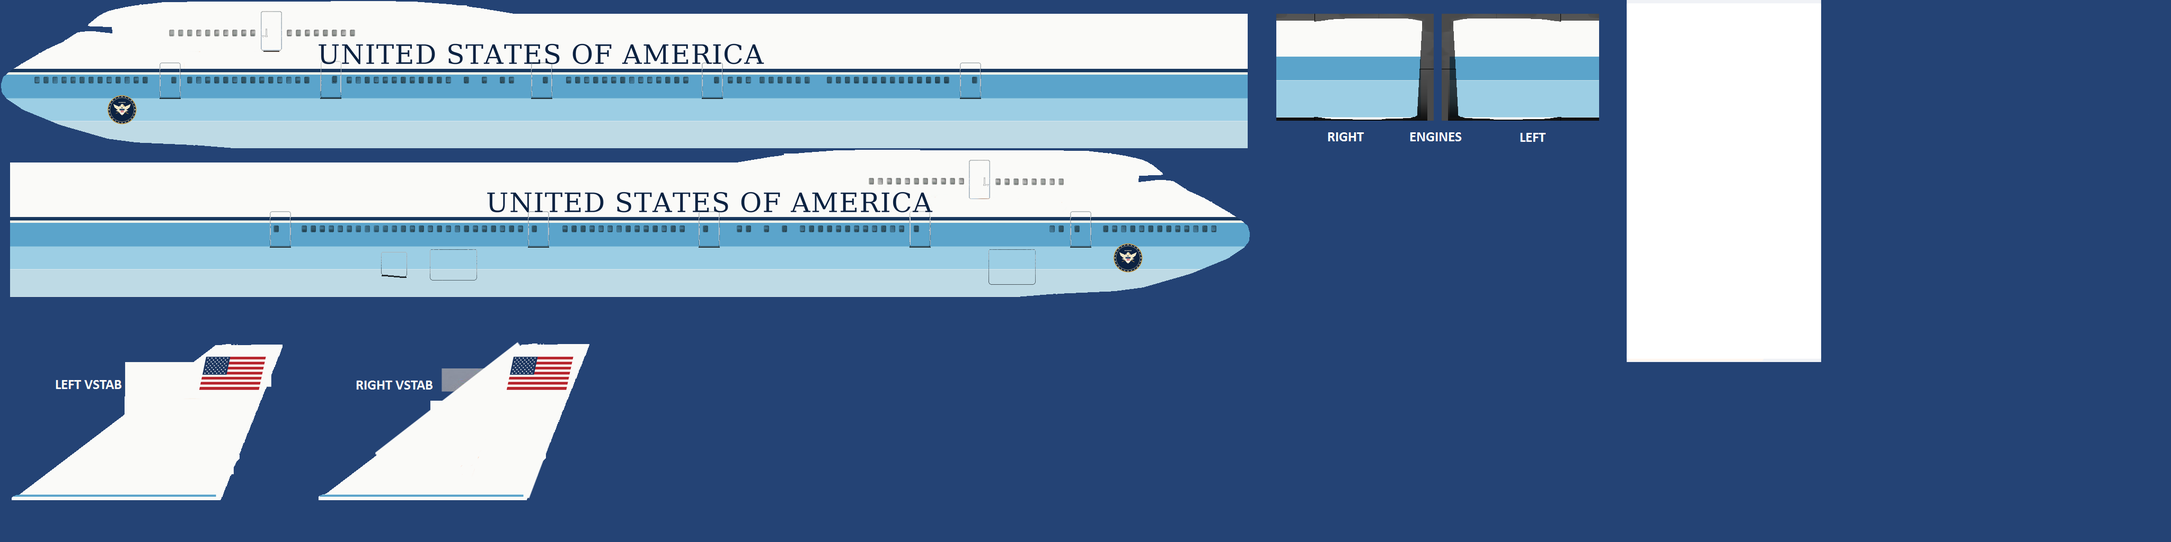
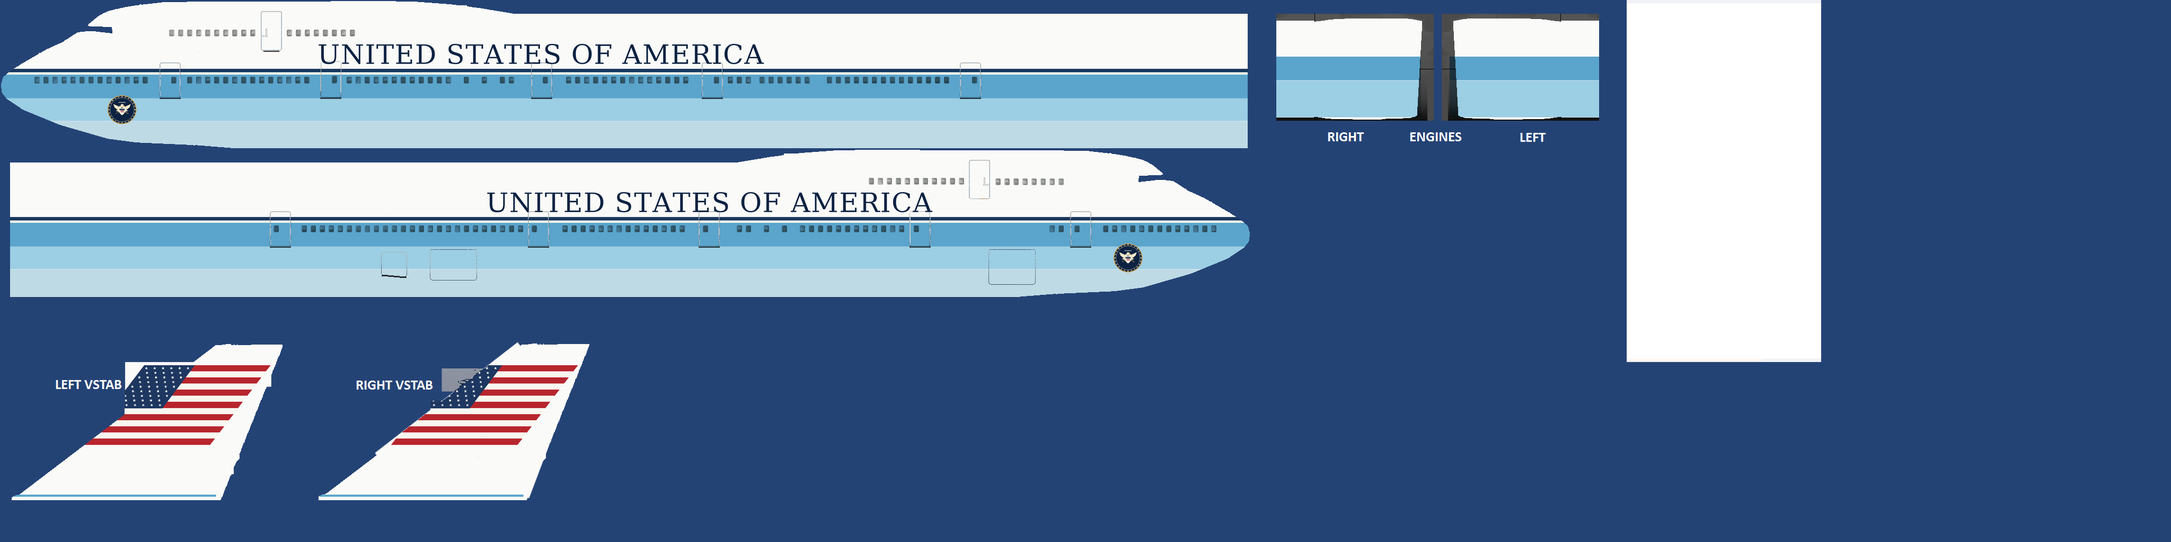
perf: cherry-pick deepseek render optimizations and 747 livery fixes
Hand-applied from origin/deepseek (224a8c0) on top of current main; the
branch itself is not merged.

Taken:
- main.js: WebGL2 context with preserveDrawingBuffer:false and
  powerPreference 'high-performance'; display.captureAfterRender() right
  after renderer.render; parked 747s tracked in parkedAircraft, frozen
  (matrixWorldAutoUpdate=false) and hidden in low quality; camera projection
  rebuilt only when near/fov/size/view offset change (also keeps
  camera.aspect in sync with the viewport, which it previously never was).
- display.js: throttled backup frame (every 20 frames) instead of reading
  the drawing buffer on context loss / hide; clientWidth/Height only read
  when the ResizeObserver marked the view dirty; pixel-ratio cap 1.7 -> 1.5.
- airflow.js: idle particle pools skip the per-particle loop and upload;
  no per-frame array allocations in emit/streaks.
- aircraft.js: reuse a module _pivot vector in update; anisotropy 16 -> 8
  (also accurate-a330.js and the world pavement texture).
- world.js: sun shadow map 4096 -> 2048 (speckle textures etc. kept).
- 747 AF1_CLASSIC.png: large flag across the upper fin, union leading on
  both sides (VC-25A style). Checked in renders from both sides.
- 777 AF1_CLASSIC / AF1_2026 fins: deepseek's intent (big flag) redone in
  main's generator rather than taking its old atlases: larger VC-25A flag
  with 28000 below, and the flag mirrored on starboard so the union leads
[…]

Changed region(s): [[0.0312, 0.6562, 0.125, 0.8438], [0.1875, 0.6562, 0.2812, 0.8438]]

diff --git a/src/main.js b/src/main.js
@@ -23,7 +23,9 @@ let renderer;
 try{
  const canvas=document.createElement('canvas');
  // Supply our own context: Three r170 otherwise requests an alpha-enabled drawing buffer.
- const context=canvas.getContext('webgl2',{alpha:false,antialias:true,depth:true,stencil:false,preserveDrawingBuffer:true,powerPreference:'default'});
+ // preserveDrawingBuffer costs a full-buffer copy on many GPUs; StableDisplay
+ // keeps its own throttled backup instead. Ask for the discrete GPU when present.
+ const context=canvas.getContext('webgl2',{alpha:false,antialias:true,depth:true,stencil:false,preserveDrawingBuffer:false,powerPreference:'high-performance'});
  if(!context)throw Error('WebGL2 unavailable');
  renderer=new T.WebGLRenderer({canvas,context,alpha:false,logarithmicDepthBuffer:true});
 }catch(e){$('#loadingText').textContent='浏览器暂时不能显示三维画面。请用 Chrome 或 Edge，并开启硬件加速后重试。';throw e;}
@@ -32,7 +34,7 @@ const display=new StableDisplay(renderer,$('#viewport'));display.beginFrame();
 const scene=new T.Scene(),camera=new T.PerspectiveCamera(43,innerWidth/innerHeight,.2,120000);
 const world=new World(scene,renderer),sim=new Flight();
 let plane=new Aircraft(),cockpit=null,airflow=null;
-const aircraftCache=new Map();let aircraftRequest=0,liveryVersion=0,desiredLivery='BOE';
+const aircraftCache=new Map();const parkedAircraft=[];let aircraftRequest=0,liveryVersion=0,desiredLivery='BOE';
 const REALITY_TAGS={real:'真机',family:'同系列',none:'无真机'};
 const AIRCRAFT_INFO={
  b747:{name:'BOEING 747–400',gear:'18 个轮子，5 组支撑',engines:4,engine:'GE CF6 · N1 %'},
@@ -44,6 +46,8 @@ let originalAbout='',originalEmitters=null;
 let camMode='orbit',orbitAngle=.87,orbitHeight=.29,orbitDistance=137,focus=new T.Vector3(0,2,0),firstCamera=true,rate=1,panel=null,toastTimer,frameCount=0,elapsed=0,fps=0;
 let orbitOverview=true,overviewCraft=null;
 let lookYaw=0,lookPitch=0,viewFov=43,towerZoom=1,cancelCameraGestures=()=>{};
+// Cache projection inputs so the camera matrix is only rebuilt when one of them changes.
+let lastViewX=NaN,lastW=0,lastH=0,lastFov=0,lastNear=0;
 const keys=new Set(),touch=new Set(),surface={roll:0,pitch:0,yaw:0};
 const camPos=new T.Vector3(),camTarget=new T.Vector3(),targetPos=new T.Vector3(),planePos=new T.Vector3();
 const lookDir=new T.Vector3(),lookRight=new T.Vector3(),panRight=new T.Vector3(),panUp=new T.Vector3(),inverseHeading=new T.Quaternion();
@@ -303,7 +307,7 @@ function bindUI(){
  $('#assist').onclick=()=>{sim.assist=!sim.assist;$('#assist').classList.toggle('active',sim.assist);};
  all('[data-time]').forEach(b=>b.onclick=()=>{world.setTime(b.dataset.time);syncCabinTime(plane);document.body.dataset.time=b.dataset.time;all('[data-time]').forEach(x=>x.classList.toggle('active',x===b));});
  all('[data-aircraft]').forEach(b=>{b.onclick=()=>selectAircraft(b.dataset.aircraft);const warm=()=>{if(b.dataset.aircraft!=='b747')preloadAircraft(b.dataset.aircraft,{livery:desiredLivery,priority:'high'});};b.addEventListener('pointerenter',warm);b.addEventListener('focus',warm);b.addEventListener('touchstart',warm,{passive:true});});$('#aircraftSelect').onchange=e=>selectAircraft(e.target.value);
- $('#quality').onchange=e=>{const low=e.target.value==='low';display.setQuality(low);renderer.shadowMap.enabled=!low;airflow?.setQuality(low);};
+ $('#quality').onchange=e=>{const low=e.target.value==='low';display.setQuality(low);renderer.shadowMap.enabled=!low;airflow?.setQuality(low);for(const p of parkedAircraft)p.visible=!low;};
  $('#sound').onclick=()=>{initAudio();sound.enabled=!sound.enabled;sound.ctx.resume();$('#sound').classList.toggle('on',sound.enabled);$('#sound').ariaLabel=sound.enabled?'关闭声音':'开启声音';notify(sound.enabled?'发动机声音已开启':'声音已关闭');};
  $('#help').onclick=()=>$('#helpDialog').showModal();all('[data-close]').forEach(b=>b.onclick=()=>$('#'+b.dataset.close).close());
  $('#fullscreen').onclick=async()=>{try{if(document.fullscreenElement)await document.exitFullscreen();else await document.documentElement.requestFullscreen();}catch{notify('请使用浏览器的全屏按钮');}};
@@ -339,7 +343,14 @@ function updateCamera(dt){
  if(camMode!=='cockpit')camPos.y=Math.max(camPos.y,1.2);
  // Light buffet shake when the wing is close to the stall, a real cue in the cockpit.
  if(sim.buffet&&!sim.paused){const shake=.28;camPos.x+=(Math.random()-.5)*shake;camPos.y+=(Math.random()-.5)*shake;camTarget.add(_shake.set((Math.random()-.5)*shake,(Math.random()-.5)*shake,0));}
- const t=firstCamera?1:1-Math.exp(-dt*6);camera.position.lerp(camPos,t);camTarget.lerp(targetPos,t);camera.up.set(0,1,0);if(camMode==='cockpit')camera.up.applyQuaternion(plane.root.quaternion);camera.lookAt(camTarget);const w=display.width,h=display.height;camera.setViewOffset(w,h,camMode==='orbit'&&w>760?(panel?w*.035:-w*.055):0,0,w,h);camera.near=camMode==='cockpit'?.03:.2;camera.updateProjectionMatrix();firstCamera=false;
+ const t=firstCamera?1:1-Math.exp(-dt*6);camera.position.lerp(camPos,t);camTarget.lerp(targetPos,t);camera.up.set(0,1,0);if(camMode==='cockpit')camera.up.applyQuaternion(plane.root.quaternion);camera.lookAt(camTarget);
+ const w=display.width,h=display.height,viewX=camMode==='orbit'&&w>760?(panel?w*.035:-w*.055):0,near=camMode==='cockpit'?.03:.2;
+ if(h>0&&(near!==lastNear||camera.fov!==lastFov||w!==lastW||h!==lastH||viewX!==lastViewX)){
+  camera.near=near;camera.aspect=w/h;lastNear=near;lastFov=camera.fov;lastW=w;lastH=h;lastViewX=viewX;
+  // Both calls rebuild the projection matrix.
+  if(viewX)camera.setViewOffset(w,h,viewX,0,w,h);else camera.clearViewOffset();
+ }
+ firstCamera=false;
 }
 function drawAttitude(){
  const c=attitude,W=200,H=150,y=sim.pitch*2.6;
@@ -404,13 +415,13 @@ let running=true;
 async function start(){
  try{await plane.load();fixAircraftWingShading(plane);aircraftCache.set('b747',Promise.resolve(plane));scene.add(plane.root);airflow=new Airflow(scene,plane);originalEmitters={engines:airflow.engines,tips:airflow.tips,mainGear:airflow.mainGear};originalAbout=$('#aboutDetails').innerHTML;
  // Parked aircraft share geometry and textures, with animations fixed at their current neutral state.
- for(const [x,z] of [[-1200,-390],[-510,-390],[180,-390],[640,-390]]){const p=plane.root.clone(true),materials=new Map();p.position.set(x,plane.contact,z);p.rotation.y=-Math.PI/2;world.softShadow(x+6,z+2,66,76);p.traverse(o=>{if(o.isMesh){o.castShadow=false;const copy=m=>{if(!materials.has(m))materials.set(m,m.clone());return materials.get(m);};o.material=Array.isArray(o.material)?o.material.map(copy):copy(o.material);}});scene.add(p);p.updateMatrixWorld(true);p.traverse(o=>{o.matrixAutoUpdate=false;});}
+ for(const [x,z] of [[-1200,-390],[-510,-390],[180,-390],[640,-390]]){const p=plane.root.clone(true),materials=new Map();p.position.set(x,plane.contact,z);p.rotation.y=-Math.PI/2;world.softShadow(x+6,z+2,66,76);p.traverse(o=>{if(o.isMesh){o.castShadow=false;const copy=m=>{if(!materials.has(m))materials.set(m,m.clone());return materials.get(m);};o.material=Array.isArray(o.material)?o.material.map(copy):copy(o.material);}});scene.add(p);p.updateMatrixWorld(true);p.traverse(o=>{o.matrixAutoUpdate=false;o.matrixWorldAutoUpdate=false;});p.visible=$('#quality')?.value!=='low';parkedAircraft.push(p);}
  addCabinLights(plane);syncCabinTime(plane);
  bindUI();showLivery();resize();setCam('orbit');$('#loading').remove();if(!/[?&]prefetch=0/.test(location.search))setTimeout(()=>scheduleIdlePrefetch(['a330','b777','a380'],{livery:()=>desiredLivery}),3000);
  window.flightLab={sim,plane,world,airflow,camera,renderer,display,go,setCam,focusPart,setThrottle,selectAircraft,selectLivery,preloadAircraft,setOrbit(angle,height,distance,at){orbitOverview=false;orbitAngle=angle;orbitHeight=height;orbitDistance=distance;if(at)focus.fromArray(at);firstCamera=true;},cameraView(){return{mode:camMode,azimuth:orbitAngle,elevation:orbitHeight,distance:orbitDistance,focus:focus.toArray(),lookYaw,lookPitch,viewFov,towerZoom};},advance(seconds){for(let i=0;i<seconds*120;i++)sim.step(1/120,{});},snapshot(){return{mode:sim.mode,phase:sim.phase,x:sim.x,z:sim.z,altitude:sim.altitude,speed:sim.speed,mach:sim.mach,alpha:sim.alpha,stallSpeed:sim.stallSpeed,loadFactor:sim.loadFactor,throttle:sim.throttle,engineN1:sim.engineN1,gear:sim.gear,flaps:sim.flaps,park:sim.park,onGround:sim.onGround,failed:sim.failed,complete:sim.complete,stalled:sim.stalled,warnings:warningList(),aircraft:plane.type,livery:plane.livery,dimensions:plane.dimensions.toArray(),contact:plane.contact,engines:AIRCRAFT_INFO[plane.type].engines,animations:plane.a330Animations?.length??plane.bindings?.length??(plane.type==='b777'?(plane._current?.bundle?.animationIndices?.length||0):plane.type==='b747'?plane.animations.length:Object.values(plane.parts||{}).reduce((n,items)=>n+items.length,0)),paint:plane.type==='a330'?'a330-atlas':plane.type==='b777'?'b777-atlas':plane.paintLivery?'airline-markings':'747-atlas',model:plane.liveryInfo?.model||plane.modelLabel||AIRCRAFT_INFO[plane.type].name,liveryInfo:plane.liveryInfo?{...plane.liveryInfo}:null,cargoMode:['a330','b777'].includes(plane.type)?plane.cargoMode:null,cabinTime:world.time,cabinLit:plane.type==='b777'?world.time==='night'&&!plane.cargoMode:(plane.cabinWindowLights?.visible??null),fps,drawCalls:renderer.info.render.calls,triangles:renderer.info.render.triangles,display:display.diagnostics()};}};
  let last=performance.now(),uiTime=0;display.onResume=()=>{last=performance.now();};
  function frame(now){if(!running)return;requestAnimationFrame(frame);if(!display.beginFrame()){last=now;return;}let realDt=Math.min((now-last)/1000,.05);last=now;const input=readInput(realDt);const dt=realDt*rate;const n=Math.max(1,Math.ceil(dt*120));for(let i=0;i<n;i++)sim.step(dt/n,input);
- plane.root.position.set(sim.x,plane.contact+sim.altitude+(sim.onGround?Math.max(0,Math.sin(radians(sim.pitch))*4):0),sim.z);plane.root.quaternion.setFromEuler(_euler.set(radians(sim.bank),radians(90-sim.heading),radians(sim.pitch)));plane.root.visible=camMode!=='cockpit';plane.update(sim,sim.paused?0:dt);if(cockpit){cockpit.root.visible=camMode==='cockpit';if(cockpit.root.visible){cockpit.root.position.copy(plane.root.position);cockpit.root.quaternion.copy(plane.root.quaternion);cockpit.update(sim,sim.paused?0:dt);cockpit.draw(sim);}}world.update(sim.paused?0:dt,plane.root.position);airflow?.update(sim,dt,camMode,world.time);compassStrip.style.transform=`translateX(${-sim.heading*COMPASS_PX}px)`;updateCamera(realDt);renderer.render(scene,camera);display.presented(now);updateAudio();
+ plane.root.position.set(sim.x,plane.contact+sim.altitude+(sim.onGround?Math.max(0,Math.sin(radians(sim.pitch))*4):0),sim.z);plane.root.quaternion.setFromEuler(_euler.set(radians(sim.bank),radians(90-sim.heading),radians(sim.pitch)));plane.root.visible=camMode!=='cockpit';plane.update(sim,sim.paused?0:dt);if(cockpit){cockpit.root.visible=camMode==='cockpit';if(cockpit.root.visible){cockpit.root.position.copy(plane.root.position);cockpit.root.quaternion.copy(plane.root.quaternion);cockpit.update(sim,sim.paused?0:dt);cockpit.draw(sim);}}world.update(sim.paused?0:dt,plane.root.position);airflow?.update(sim,dt,camMode,world.time);compassStrip.style.transform=`translateX(${-sim.heading*COMPASS_PX}px)`;updateCamera(realDt);renderer.render(scene,camera);display.captureAfterRender();display.presented(now);updateAudio();
  uiTime+=realDt;if(uiTime>.09){updateUI();uiTime=0;}if(sim.failed&&!$('#retryDialog').open){$('#retryReason').textContent=sim.message;$('#retryDialog').showModal();}
  elapsed+=realDt;frameCount++;if(elapsed>1){fps=Math.round(frameCount/elapsed);elapsed=0;frameCount=0;}
  }requestAnimationFrame(frame);

diff --git a/src/display.js b/src/display.js
@@ -2,13 +2,14 @@
 export class StableDisplay {
  constructor(renderer,host){
   this.renderer=renderer;this.host=host;this.width=0;this.height=0;this.ratio=0;
-  this.lowQuality=false;this.dirty=true;this.lost=false;this.suspended=false;this.hasBackup=false;
+  this.lowQuality=false;this.dirty=true;this.lost=false;this.suspended=false;this.hasBackup=false;this.captureTick=0;
   this.stats={frames:0,resizes:0,contextLosses:0,restores:0,backupCaptures:0};
   this.backup=document.createElement('canvas');this.backup.className='last-frame';this.backup.hidden=true;this.backup.setAttribute('aria-hidden','true');host.appendChild(this.backup);
   this.copy=this.backup.getContext('2d',{alpha:false});
   this.observer=new ResizeObserver(()=>this.requestResize());this.observer.observe(host);
   renderer.domElement.addEventListener('webglcontextlost',event=>{
-   this.captureBackup();event.preventDefault();this.lost=true;this.stats.contextLosses++;this.showBackup();this.onSuspend?.();
+   // The drawing buffer is already gone; keep the last throttled copy instead.
+   event.preventDefault();this.lost=true;this.stats.contextLosses++;this.showBackup();this.onSuspend?.();
   });
   renderer.domElement.addEventListener('webglcontextrestored',()=>{
    this.lost=false;this.dirty=true;this.stats.restores++;
@@ -16,7 +17,7 @@ export class StableDisplay {
   });
   document.addEventListener('visibilitychange',()=>{
    this.suspended=document.hidden;
-   if(this.suspended){this.captureBackup();this.showBackup();this.onSuspend?.();}else{this.requestResize();this.onResume?.();}
+   if(this.suspended){this.showBackup();this.onSuspend?.();}else{this.requestResize();this.onResume?.();}
   });
  }
  requestResize(){this.dirty=true;}
@@ -32,17 +33,27 @@ export class StableDisplay {
  showBackup(){if(this.hasBackup)this.backup.hidden=false;}
  beginFrame(){
   if(this.lost||this.suspended||document.hidden)return false;
-  const width=Math.floor(this.host.clientWidth),height=Math.floor(this.host.clientHeight);
-  if(width<2||height<2)return false;
-  const ratio=this.lowQuality?1:Math.min(devicePixelRatio||1,1.7);
-  if(width!==this.width||height!==this.height||ratio!==this.ratio){
-   if(this.width>1&&this.height>1)this.captureBackup();
-   this.showBackup();
-   // Unlike repeated setSize calls from resize events, this clears once, immediately before rendering.
-   this.renderer.setDrawingBufferSize(width,height,ratio);
-   this.width=width;this.height=height;this.ratio=ratio;this.stats.resizes++;
+  // Reading clientWidth/clientHeight forces layout. The ResizeObserver already
+  // marks us dirty, so only measure when the size may actually have changed.
+  if(this.dirty){
+   const width=Math.floor(this.host.clientWidth),height=Math.floor(this.host.clientHeight);
+   if(width<2||height<2)return false;
+   const ratio=this.lowQuality?1:Math.min(devicePixelRatio||1,1.5);
+   if(width!==this.width||height!==this.height||ratio!==this.ratio){
+    this.showBackup();
+    // Unlike repeated setSize calls from resize events, this clears once, immediately before rendering.
+    this.renderer.setDrawingBufferSize(width,height,ratio);
+    this.width=width;this.height=height;this.ratio=ratio;this.stats.resizes++;
+   }
+   this.dirty=false;
   }
-  this.dirty=false;return true;
+  return true;
+ }
+ // preserveDrawingBuffer is off, so the canvas is only readable in the same
+ // task as render(). Keep a throttled copy for context-loss/visibility cover.
+ captureAfterRender(){
+  if((++this.captureTick%20)!==0)return;
+  this.captureBackup();
  }
  presented(now){
   this.stats.frames++;

diff --git a/src/airflow.js b/src/airflow.js
@@ -7,24 +7,30 @@ const fg=(x,y,z)=>new T.Vector3(x,z,-y);
 // Round-robin particle pool drawn as soft points, with per-particle colour + alpha.
 class Pool{
  constructor(scene,{count,size,color,additive=false,map=null}){
-  this.n=count;this.next=0;
+  this.n=count;this.next=0;this.alive=0;
   this.pos=new Float32Array(count*3);this.col=new Float32Array(count*4);
   this.vel=new Float32Array(count*3);this.age=new Float32Array(count).fill(1e3);this.life=new Float32Array(count).fill(1);this.alpha=new Float32Array(count);
   for(let i=0;i<count;i++){this.col.set([color[0],color[1],color[2],0],i*4);}
   this.rgb=color;
   const g=new T.BufferGeometry();g.setAttribute('position',new T.BufferAttribute(this.pos,3));g.setAttribute('color',new T.BufferAttribute(this.col,4));
   this.points=new T.Points(g,new T.PointsMaterial({size,map,vertexColors:true,transparent:true,depthWrite:false,blending:additive?T.AdditiveBlending:T.NormalBlending}));
-  this.points.frustumCulled=false;this.points.renderOrder=10;scene.add(this.points);
+  this.points.frustumCulled=false;this.points.renderOrder=10;this.points.visible=false;this.wasLive=false;scene.add(this.points);
  }
  emit(p,v,life,alpha){
   const i=this.next;this.next=(i+1)%this.n;
-  this.pos.set([p.x,p.y,p.z],i*3);this.vel.set(v?[v.x,v.y,v.z]:[0,0,0],i*3);this.age[i]=0;this.life[i]=life;this.alpha[i]=alpha;
+  if(this.age[i]>=this.life[i])this.alive++;
+  this.points.visible=true;
+  const k=i*3;this.pos[k]=p.x;this.pos[k+1]=p.y;this.pos[k+2]=p.z;
+  this.vel[k]=v?v.x:0;this.vel[k+1]=v?v.y:0;this.vel[k+2]=v?v.z:0;
+  this.age[i]=0;this.life[i]=life;this.alpha[i]=alpha;
  }
  update(dt){
+  // Idle pools cost nothing: no per-particle loop and no GPU buffer upload.
+  if(this.alive===0){if(this.wasLive){this.points.visible=false;this.wasLive=false;}return;}
   let live=false;
   for(let i=0;i<this.n;i++){
-   const age=this.age[i]+=dt;
-   if(age>=this.life[i]){this.col[i*4+3]=0;continue;}
+   const prev=this.age[i],age=this.age[i]=prev+dt;
+   if(age>=this.life[i]){if(prev<this.life[i])this.alive--;this.col[i*4+3]=0;continue;}
    live=true;const k=i*3;this.pos[k]+=this.vel[k]*dt;this.pos[k+1]+=this.vel[k+1]*dt;this.pos[k+2]+=this.vel[k+2]*dt;
    const t=age/this.life[i];this.col[i*4+3]=this.alpha[i]*Math.pow(1-t,1.5)*Math.min(1,age*6);
   }
@@ -123,7 +129,8 @@ export class Airflow{
    this.streakPos[k]=p.x;this.streakPos[k+1]=p.y;this.streakPos[k+2]=p.z;
    this.streakPos[k+3]=p.x-dir.x*len;this.streakPos[k+4]=p.y-dir.y*len;this.streakPos[k+5]=p.z-dir.z*len;
    const a=on?base:0;
-   this.streakCol.set([shade,shade,1,a,shade,shade,1,0],c);
+   this.streakCol[c]=shade;this.streakCol[c+1]=shade;this.streakCol[c+2]=1;this.streakCol[c+3]=a;
+   this.streakCol[c+4]=shade;this.streakCol[c+5]=shade;this.streakCol[c+6]=1;this.streakCol[c+7]=0;
   }
   this.streaks.geometry.attributes.position.needsUpdate=true;this.streaks.geometry.attributes.color.needsUpdate=true;this.streaks.visible=strength>.02;
  }

diff --git a/src/world.js b/src/world.js
@@ -51,7 +51,7 @@ function pavementTexture(base,scale=1,{joints=0,stains=18}={}){const S=1024,c=do
  speckle(x,S,120000,.07,2,2);
  x.strokeStyle='rgba(10,12,12,.28)';x.lineWidth=1;for(let i=0;i<26;i++){let px=rnd()*S,py=rnd()*S;x.beginPath();x.moveTo(px,py);for(let k=0;k<8;k++){px+=(rnd()-.5)*46;py+=(rnd()-.35)*34;x.lineTo(px,py);}x.stroke();}
  if(joints){x.strokeStyle='rgba(20,22,22,.34)';x.lineWidth=2;for(let k=0;k<=joints;k++){const q=k*S/joints;x.beginPath();x.moveTo(q,0);x.lineTo(q,S);x.stroke();x.beginPath();x.moveTo(0,q);x.lineTo(S,q);x.stroke();}}
- const t=canvasTex(c);t.wrapS=t.wrapT=T.RepeatWrapping;t.repeat.set(scale,scale);t.anisotropy=16;return t;}
+ const t=canvasTex(c);t.wrapS=t.wrapT=T.RepeatWrapping;t.repeat.set(scale,scale);t.anisotropy=8;return t;}
 // Greyscale lumps for a gentle bump on grass, so the low sun grazes real relief.
 function grassBumpTexture(){const S=512,c=document.createElement('canvas');c.width=c.height=S;const x=c.getContext('2d');x.fillStyle='#808080';x.fillRect(0,0,S,S);
  speckle(x,S,90000,1,2,4,90,80);
@@ -86,7 +86,7 @@ export class World{
   this.sky=new Sky();this.sky.scale.setScalar(200000);scene.add(this.sky);const u=this.sky.material.uniforms;u.turbidity.value=3;u.rayleigh.value=1.6;u.mieCoefficient.value=.004;u.mieDirectionalG.value=.82;
   this.envs={};
   this.hemi=new T.HemisphereLight(0xcde9ff,0x758466,1.15);scene.add(this.hemi);
-  this.sun=new T.DirectionalLight(0xfff5de,3.2);this.sun.position.set(300,500,-250);this.sun.castShadow=true;this.sun.shadow.mapSize.set(4096,4096);Object.assign(this.sun.shadow.camera,{left:-150,right:150,top:150,bottom:-150,near:10,far:1600});this.sun.shadow.bias=-.0001;this.sun.shadow.normalBias=.08;this.sun.shadow.radius=2.2;scene.add(this.sun,this.sun.target);
+  this.sun=new T.DirectionalLight(0xfff5de,3.2);this.sun.position.set(300,500,-250);this.sun.castShadow=true;this.sun.shadow.mapSize.set(2048,2048);Object.assign(this.sun.shadow.camera,{left:-150,right:150,top:150,bottom:-150,near:10,far:1600});this.sun.shadow.bias=-.0001;this.sun.shadow.normalBias=.08;this.sun.shadow.radius=2.2;scene.add(this.sun,this.sun.target);
   const grass=mat('#ffffff',.95);grass.map=fieldTexture();grass.map.repeat.set(48,48);grass.bumpMap=grassBumpTexture();grass.bumpMap.repeat.set(900,900);grass.bumpScale=1.6;this.ground(0,0,100000,100000,grass,-.05);
   // Mowed stripes beside the runway and soft far-field patches break up the horizon.
   const mowA=mat('#7c9764',.95),mowB=mat('#8aa571',.95);for(let i=0;i<22;i++)this.ground(0,60+i*14,4300,14,i%2?mowA:mowB,-.045);

diff --git a/src/aircraft.js b/src/aircraft.js
@@ -17,7 +17,7 @@ function texture(name){
    if(textures.get(name)===t){textures.delete(name);textureLoads.delete(name);}
    rejectLoad(Error('涂装载入失败，请重试'));
   });
-  t.colorSpace=T.SRGBColorSpace;t.anisotropy=16;
+  t.colorSpace=T.SRGBColorSpace;t.anisotropy=8;
   textures.set(name,t);textureLoads.set(name,loaded);
  }
  return textures.get(name);
@@ -25,6 +25,7 @@ function texture(name){
 const txt=(node,tag,def='')=>node?.querySelector(':scope > '+tag)?.textContent.trim()??def;
 const num=(node,tag,def=0)=>Number(txt(node,tag,def));
 const fg=(x,y,z)=>new T.Vector3(x,z,-y);
+const _pivot=new T.Vector3();
 const children=(el,name)=>Array.from(el.children).filter(x=>x.tagName===name);
 
 // AC3D is Y-up. FlightGear animation XML is Z-up; transform pivots and axes together.
@@ -133,7 +134,7 @@ export class Aircraft{
    let v=this.value(a.prop,s);if(a.table.length){const t=a.table;if(v<=t[0][0])v=t[0][1];else if(v>=t.at(-1)[0])v=t.at(-1)[1];else for(let i=1;i<t.length;i++)if(v<=t[i][0]){v=T.MathUtils.lerp(t[i-1][1],t[i][1],(v-t[i-1][0])/(t[i][0]-t[i-1][0]));break;}}
    v=v*a.factor+a.offset;
    if(a.type==='spin'){a.phase=(a.phase+v*dt*6)%360;v=a.phase;}
-   for(const o of a.wrappers){if(a.type==='translate')o.position.copy(a.axis).multiplyScalar(v);else{o.quaternion.setFromAxisAngle(a.axis,v*Math.PI/180);o.position.copy(a.center).sub(a.center.clone().applyQuaternion(o.quaternion));}}
+   for(const o of a.wrappers){if(a.type==='translate')o.position.copy(a.axis).multiplyScalar(v);else{o.quaternion.setFromAxisAngle(a.axis,v*Math.PI/180);o.position.copy(a.center).sub(_pivot.copy(a.center).applyQuaternion(o.quaternion));}}
   }
   this.lights.forEach((m,i)=>m.visible=s.lights!==false&&(i<2||((s.time||0)%1.2)<.17));
  }

diff --git a/src/accurate-a330.js b/src/accurate-a330.js
@@ -32,7 +32,7 @@ function requestLiveryTexture(owner,url,timeoutMs){
   try{texture=new T.TextureLoader().load(url,t=>{
    const image=t.image,w=image?.naturalWidth??image?.width,h=image?.naturalHeight??image?.height;
    if(w!==2048||h!==1024){finish(Error('A330 涂装贴图尺寸错误'),t);return;}
-   t.colorSpace=T.SRGBColorSpace;t.anisotropy=16;finish(null,t);
+   t.colorSpace=T.SRGBColorSpace;t.anisotropy=8;finish(null,t);
   },undefined,()=>finish(Error('A330 涂装贴图载入失败')));}catch(error){finish(error);}
  });
 }

diff --git a/tests/b777_liveries_more.py b/tests/b777_liveries_more.py
@@ -100,8 +100,10 @@ def af1c(body, fin):
     _stripe(body, -.19, -.14, NAVY, -24, 36)
     body.text(-8.0, 1.0, 'UNITED STATES OF AMERICA', 1.0, NAVY, family='Georgia', weight='bold', length=14.5)
     fin.rect_all(WHITE)
-    fin.logo('us-flag.png', fin_pt(.5, 10.6)[0], 10.6, 2.2, mirror=False)
-    fin.text(fin_pt(.5, 8.2)[0], 8.2, '28000', .8, NAVY, weight='bold')
+    # VC-25A style: a large flag across most of the upper fin chord, tail number below.
+    # The flag is mirrored on the starboard side so the union always leads (US aircraft convention).
+    fin.logo('us-flag.png', fin_pt(.58, 9.6)[0], 9.6, 4.2)
+    fin.text(fin_pt(.55, 7.3)[0], 7.3, '28000', .9, NAVY, weight='bold')
     return dict(engine=dict(base='#79b4de'))
 
 def af1n(body, fin):
@@ -113,7 +115,7 @@ def af1n(body, fin):
     body.poly(band(-25.4, 37.8, edge, lambda x: edge(x)+.07), RED)
     body.text(-8.0, 1.0, 'UNITED STATES OF AMERICA', 1.0, NAVY, family='Georgia', weight='bold', length=14.5)
     fin.rect_all(NAVY)
-    fin.logo('us-flag.png', fin_pt(.5, 8.0)[0], 8.0, 6.0, mirror=False)
+    fin.logo('us-flag.png', fin_pt(.5, 8.0)[0], 8.0, 6.0)
     return dict(engine=dict(base='#ffffff', lower=NAVY, split=-.1))
 
 def fedex(body, fin):

diff --git a/tests/b777_livery_lib.py b/tests/b777_livery_lib.py
@@ -11,9 +11,12 @@ import numpy as np
 from PIL import Image
 
 ROOT = Path(__file__).resolve().parents[1]
+# The shipped GLBs are meshopt-compressed, which this reader cannot decode. Point
+# B777_GLB_PAX / B777_GLB_CARGO at the uncompressed originals (same UVs), e.g.
+#   git show db2577a:assets/accurate-b777/777-200LR-2048.candidate.glb > %TEMP%/777-pax.glb
 GLB = {
- 'pax': ROOT/'assets/accurate-b777/777-200LR-2048.candidate.glb',
- 'cargo': ROOT/'assets/accurate-b777/777-200F-refined.candidate.glb',
+ 'pax': Path(os.environ.get('B777_GLB_PAX', ROOT/'assets/accurate-b777/777-200LR-2048.candidate.glb')),
+ 'cargo': Path(os.environ.get('B777_GLB_CARGO', ROOT/'assets/accurate-b777/777-200F-refined.candidate.glb')),
 }
 SRC = ROOT/'assets/accurate-b777'
 CACHE = Path(os.environ.get('B777_CACHE', tempfile.gettempdir()))/'b777-livery-cache'

diff --git a/tools/generate_world_liveries.py b/tools/generate_world_liveries.py
@@ -233,8 +233,9 @@ def paint_tails(im, kind):
             uae_tail(d, ox)
         elif kind == "classic":
             rect(d, (ox,650,ox+550,948), WHITE)
-            # Traditional small flag near the tip, hoist towards the leading edge.
-            flag(d, ox+389, 674, 112, 62, slant=13)
+            # The real VC-25A carries a large flag over most of the fin, with
+            # the hoist along the swept leading edge (not a small tip badge).
+            flag(d, ox+272, 690, 238, 150, slant=114)
             line(d, [(ox+23,936),(ox+407,936)], (91,164,203), 4)
         else:
             rect(d, (ox,650,ox+550,948), WHITE)

diff --git a/README.md b/README.md
@@ -16,6 +16,7 @@
 - 涂装真实性：涂装列表里每款都带标签——**真机**＝现实中该机型确有这套涂装；**同系列**＝该航司飞过同系列的其他型号；**无真机**＝现实中不存在（例如国内四大航司里只有南航买过 A380），为兼容适配，并在说明里注明。
 - 载入：机型模型在空闲时自动预下载，悬停或点选机型时优先下载，顶部有进度条；载入过一次的机型可以秒切。
 - 环境：白天、黄昏、夜晚。可关闭辅助驾驶、切换流畅画质，或从跑道开始手动起飞。
+- 画质：默认“精细”保留阴影与抗锯齿；“流畅”会关闭阴影、降低粒子密度并隐藏停机坪上的静态飞机，适合较慢的电脑或移动设备。
 - 相机：环绕、跟随、驾驶舱、机翼、塔台。空格暂停，演示可用 1× / 2× / 4× 播放。
 
 手动起飞：环境 → 从跑道开始 → 襟翼 20° → 按 P 松开停留刹车 → 推满油门 → 约 280 km/h 时轻轻按 ↓ 抬头 → 离地后按 G 收轮。高度增加后逐步收襟翼。
@@ -25,5 +26,7 @@
 ## 文件与验证
 
 `src/` 是可编辑网页源代码；`assets/aircraft/` 保存 FlightGear 模型、关节定义、涂装及原许可与作者信息。`MODEL-NOTES.html` 记录来源和尺寸校核。运行 `npm start` 启动，`npm run check` 检查飞行流程。
+
+渲染侧做了几项通用优化：关闭 `preserveDrawingBuffer` 并改为节流备份帧、阴影贴图 4096→2048、各向异性 16→8、缓存相机投影矩阵、避免每帧分配临时向量、粒子池空闲时跳过更新，以及低画质下隐藏静态停机坪飞机。
 
 FlightGear 模型与贴图遵循随附 GNU GPL v2 许可；本项目的适配代码同样按 GPL v2 提供，Three.js 遵循 MIT 许可。没有覆盖桌面原来的 747-simulator。
